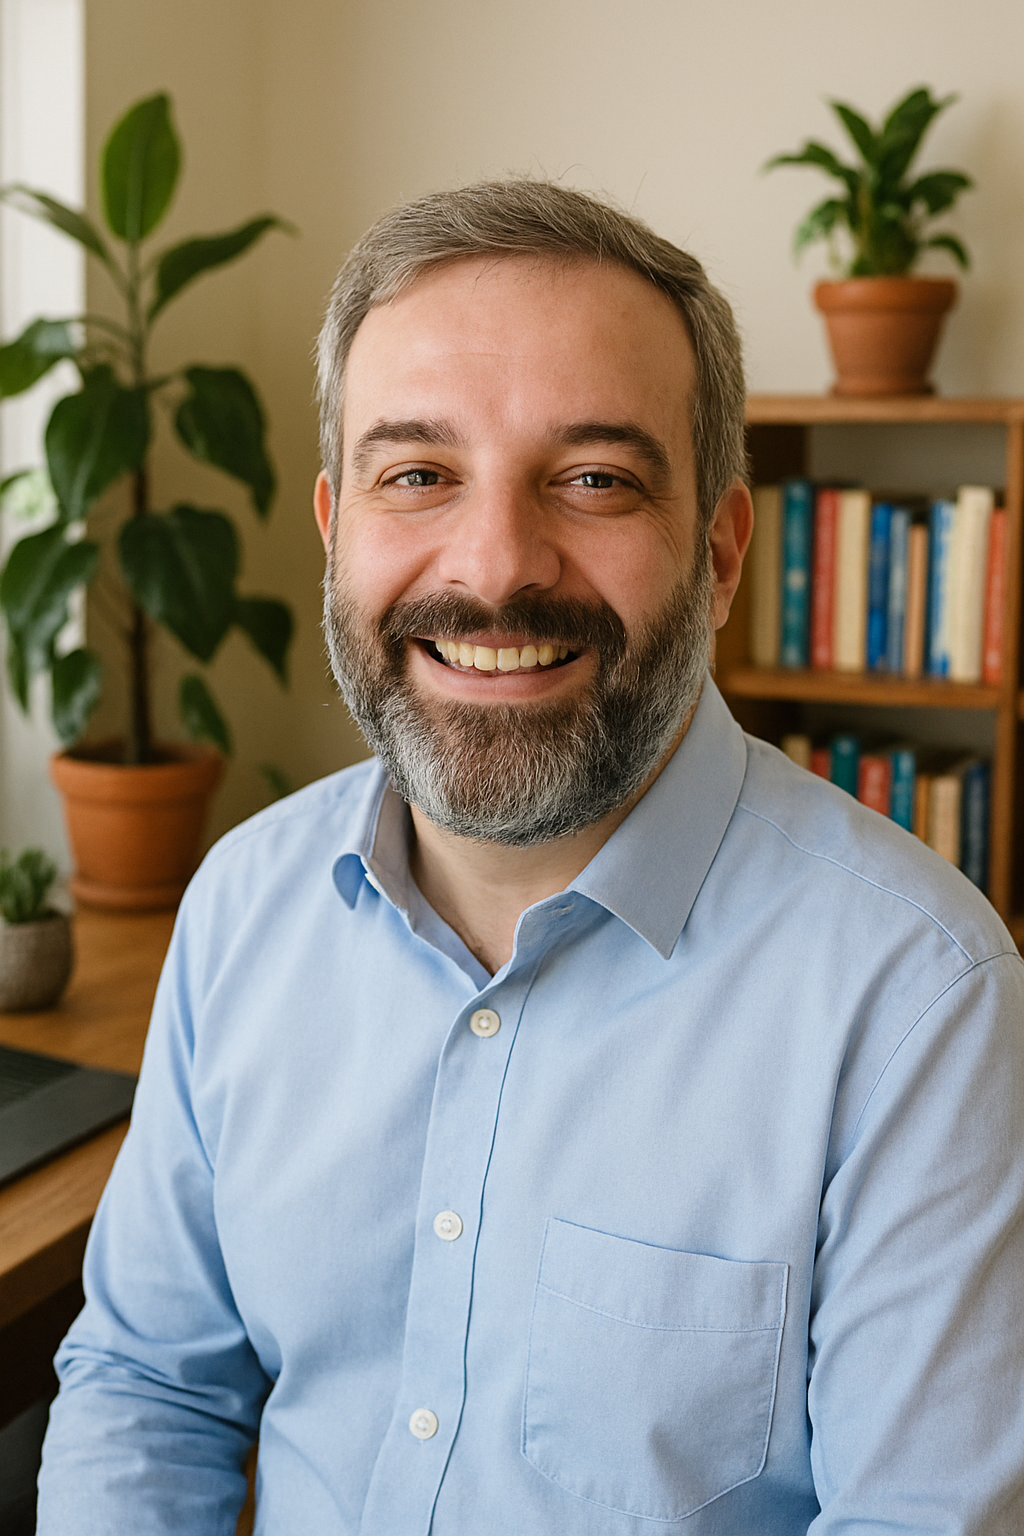
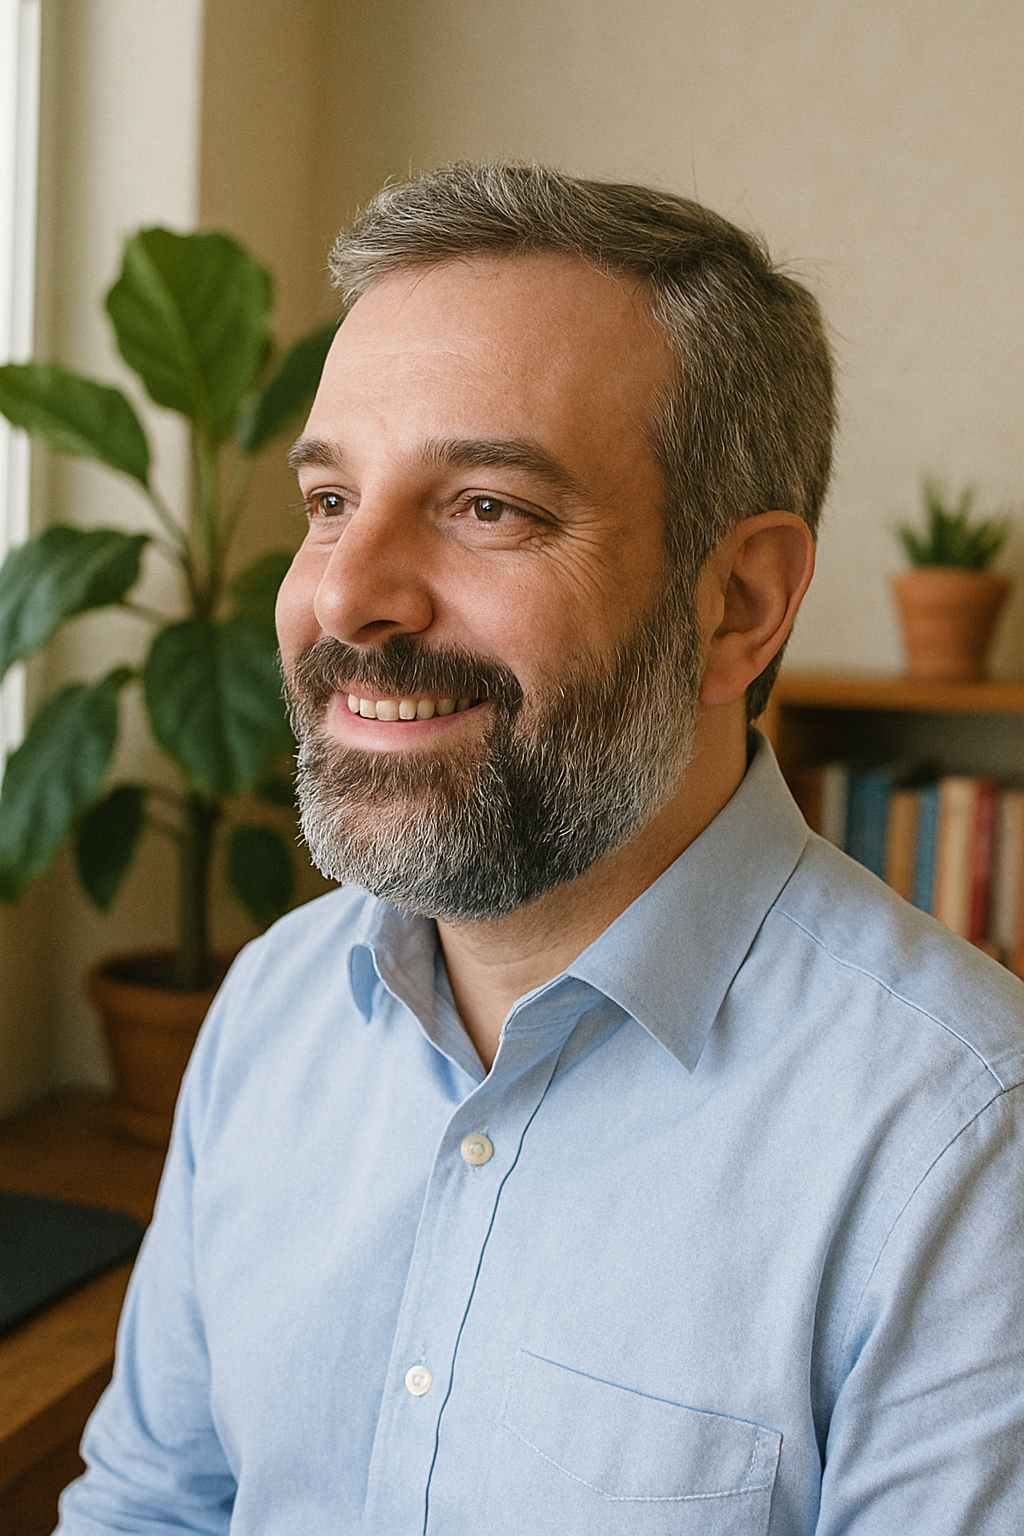
fotos

diff --git a/src/Templates/ProdutosSection/index.tsx b/src/Templates/ProdutosSection/index.tsx
@@ -22,7 +22,7 @@ const ProdutosSection = () => {
                         text2="O conteúdo? São as mesmas estratégias que uso em mentorias individuais, agora disponíveis para você, no seu ritmo. Com videoaulas, templates prontos e uma comunidade para trocar ideias." 
                         linkCTA=""
                         txtButton="Quero fazer parte"
-                        srcImg="/assets/images/produto01.png"
+                        srcImg="/assets/ChatGPT Image 7_07_2025, 10_37_10.png"
                         imgPosition='right'
                     />
 
@@ -36,7 +36,7 @@ const ProdutosSection = () => {
                         text2=""
                         linkCTA="https://go.hotmart.com/C99184257E"
                         txtButton="Quero meu Ebook agora"
-                        srcImg="/assets/images/produto02.png"
+                        srcImg="/assets/ChatGPT Image 7_07_2025, 10_37_10.png"
                         imgPosition='left'
                     />
                 </div>

diff --git a/src/components/CardProduto/index.tsx b/src/components/CardProduto/index.tsx
@@ -14,7 +14,7 @@ const CardProduto:FC <CardProdutoProps> = ({ txtTag, titulo, text, txtList1, txt
                     <img 
                         src={srcImg} 
                         alt={`Ilustração ${titulo}`} 
-                        className="w-full max-w-sm lg:max-w-md h-auto"
+                        className="w-full max-w-sm lg:max-w-md h-auto rounded-xl"
                     />
                 </div>
             )}
@@ -41,7 +41,7 @@ const CardProduto:FC <CardProdutoProps> = ({ txtTag, titulo, text, txtList1, txt
                     <img 
                         src={srcImg} 
                         alt={`Ilustração ${titulo}`} 
-                        className="w-full max-w-sm lg:max-w-md h-auto"
+                        className="w-full max-w-sm lg:max-w-md h-auto rounded-xl"
                     />
                 </div>
             )}

diff --git a/src/Templates/AboutSection/index.tsx b/src/Templates/AboutSection/index.tsx
@@ -8,9 +8,9 @@ const AboutSection = () => {
 
                 <div className={`${styles.AboutSectionImage} flex justify-center lg:justify-start w-full lg:w-auto order-2 lg:order-1`}>
                     <img 
-                        src="/assets/images/section02.png" 
-                        alt="Rafael Forneiro" 
-                        className="w-full max-w-sm lg:max-w-md xl:max-w-lg h-auto"
+                        src="/assets/images/about-rafael.png" 
+                        alt="Rafael Forneiro - CEO da RF Consultoria e Especialista em Gestão Ágil" 
+                        className="w-full max-w-sm lg:max-w-md xl:max-w-lg h-auto object-cover rounded-lg"
                     />
                 </div>
 
